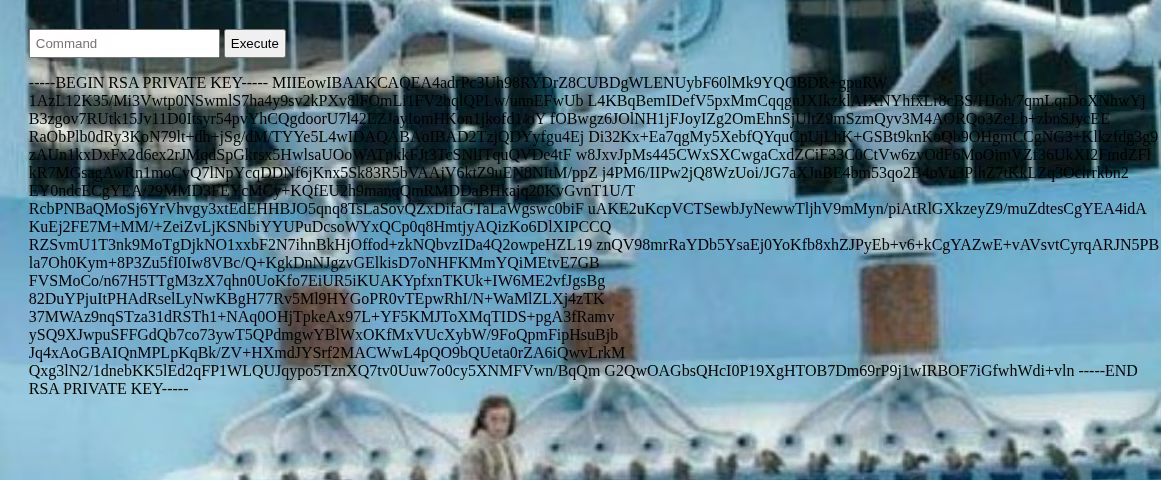
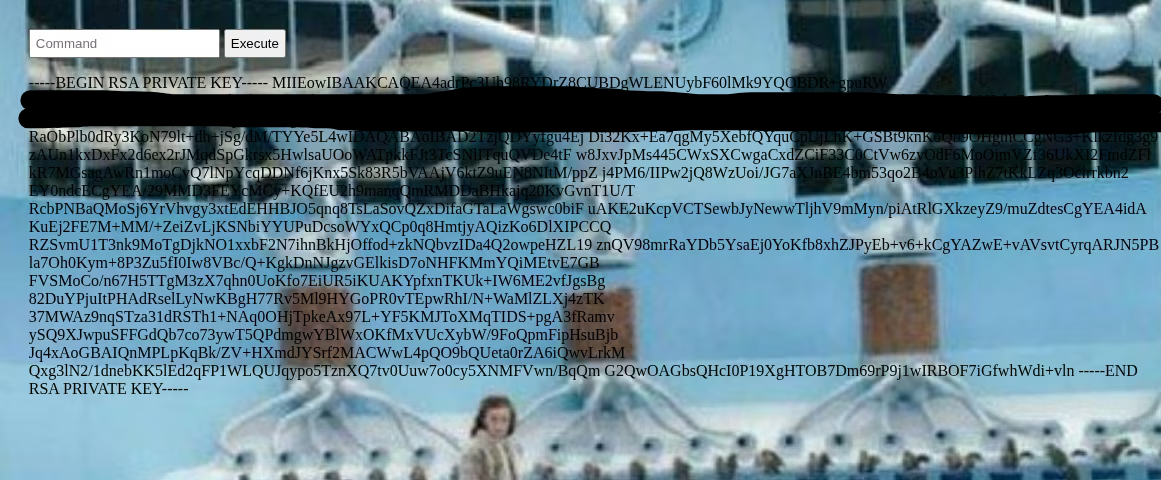
Some fixes

Changed region(s): [[0.0, 0.1562, 1.0, 0.2812]]

diff --git a/writeups/chocolate-factory.html b/writeups/chocolate-factory.html
@@ -360,14 +360,14 @@ wrote extracted data to "b64.txt".</code></pre>
             <pre><code>$ hashcat -m 1800 hash.txt /usr/share/wordlists/rockyou.txt</code></pre>
 
             <p>
-                Success! The password for charlie is: <strong style="color: var(--accent);">cn7824</strong>.
+                Success! The password for charlie is: <strong style="color: var(--accent);">****** (blurred)</strong>.
             </p>
 
             <img src="images_chocolate-factory/hashcat_cracked.png" alt="Hashcat Result" class="screenshot">
 
             <h2 id="foothold">4. Web Exploitation & Foothold</h2>
             <p>
-                With credentials in hand (<code>charlie:cn7824</code>), I went to the web server on port 80.
+                With credentials in hand (<code>charlie:****** (blurred)</code>), I went to the web server on port 80.
                 After logging into the "Squirrel Room" login form, I was presented with a <strong>Command Execution</strong> panel.
             </p>
 
@@ -414,9 +414,6 @@ wrote extracted data to "b64.txt".</code></pre>
                 I searched the system and found a binary called <code>key_rev_key</code>. When I ran it, it asked for a name.
                 Inputting "charlie" or "wonka" failed. However, by using <code>strings</code>, I gainted the key!.
             </p>
-            <pre class="cmd-output">
-Key: b'-VkgXhFf6sAEcAwrC6YR-SZbiuSb8ABXeQuvhcGSQzY='
-            </pre>
 
             <img src="images_chocolate-factory/strings.png" alt="Strings result" class="screenshot">
 
